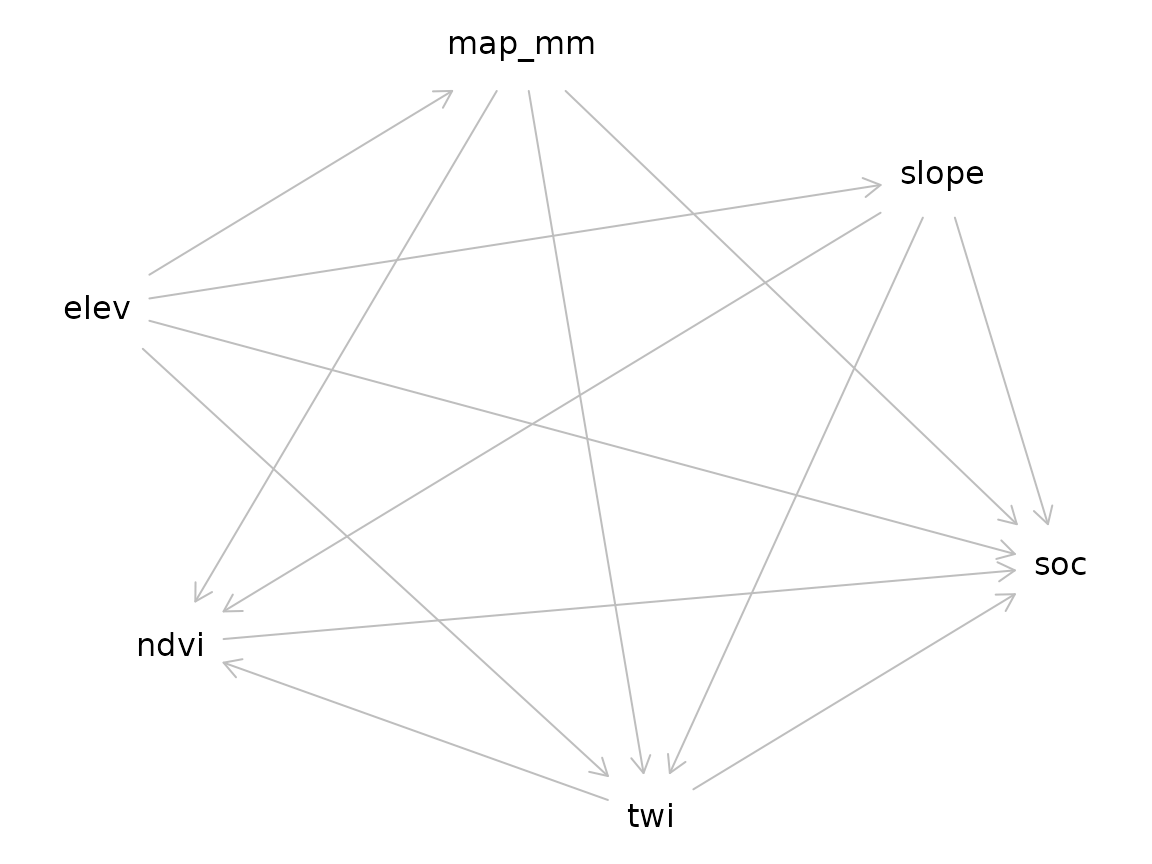
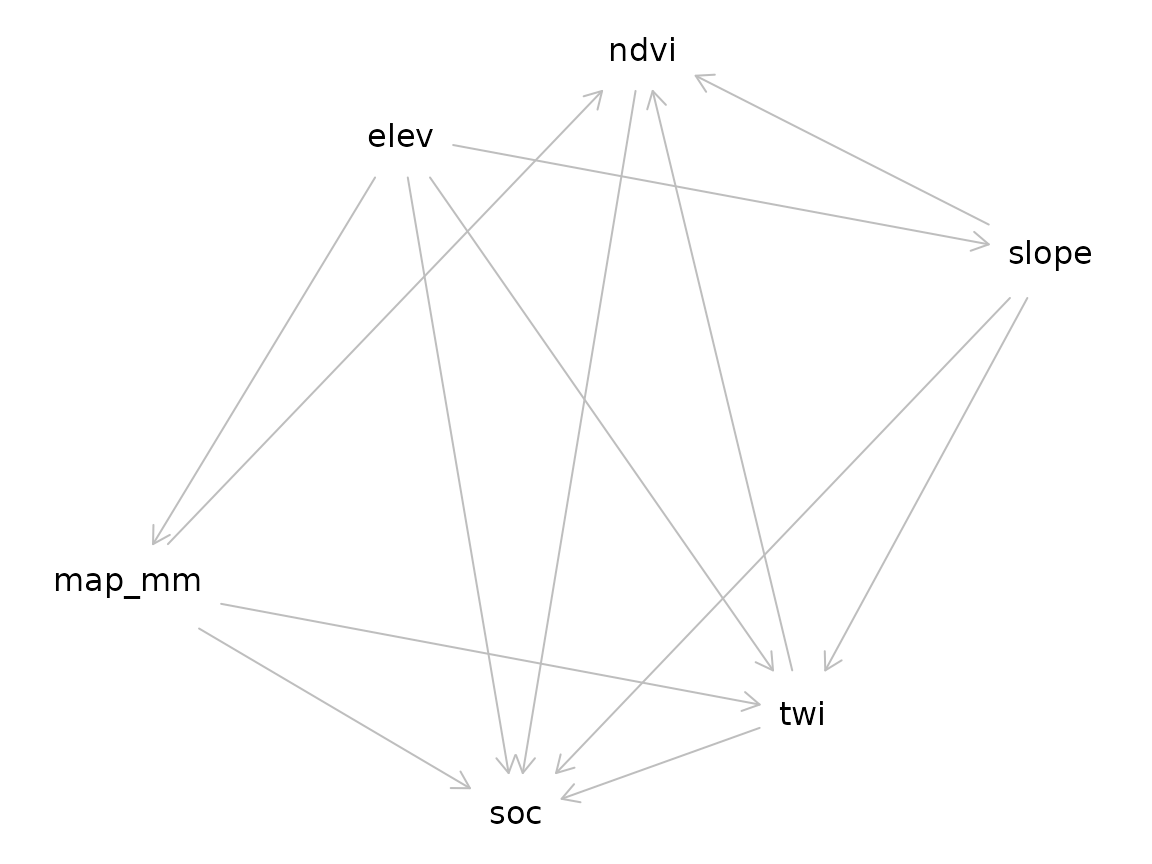
Deploying to gh-pages from @ HugoMachadoRodrigues/edaphos@797adc5ddd590fa5825f6377208c3dc3be8e29ff 🚀

diff --git a/reference/causal_kg_new.html b/reference/causal_kg_new.html
@@ -142,7 +142,7 @@ directed <code>igraph</code>.</p>
 <span class="r-out co"><span class="r-pr">#&gt;</span>                                                    evidence confidence</span>
 <span class="r-out co"><span class="r-pr">#&gt;</span> 1 Higher precipitation favours organic-matter accumulation.        0.9</span>
 <span class="r-out co"><span class="r-pr">#&gt;</span>              timestamp</span>
-<span class="r-out co"><span class="r-pr">#&gt;</span> 1 2026-04-27T15:42:25Z</span>
+<span class="r-out co"><span class="r-pr">#&gt;</span> 1 2026-04-27T15:49:42Z</span>
 <span class="r-in"><span><span class="co"># }</span></span></span>
 </code></pre></div>
     </div>

diff --git a/reference/causal_kg_new.md b/reference/causal_kg_new.md
@@ -36,6 +36,6 @@ An `edaphos_causal_kg` object (S3) containing an empty directed
 #>                                                    evidence confidence
 #> 1 Higher precipitation favours organic-matter accumulation.        0.9
 #>              timestamp
-#> 1 2026-04-27T15:42:25Z
+#> 1 2026-04-27T15:49:42Z
 # }
 ```